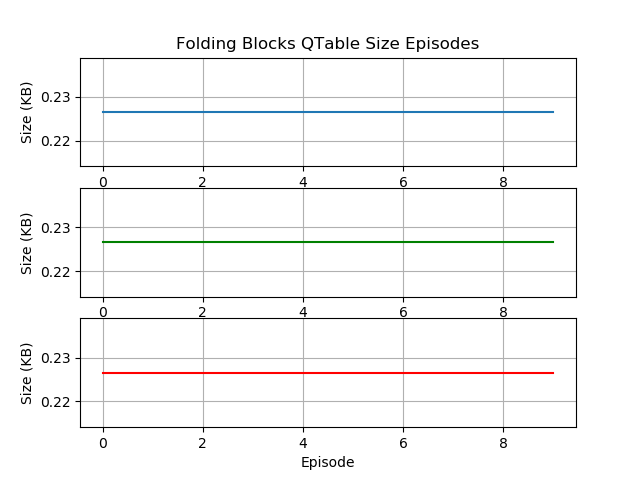
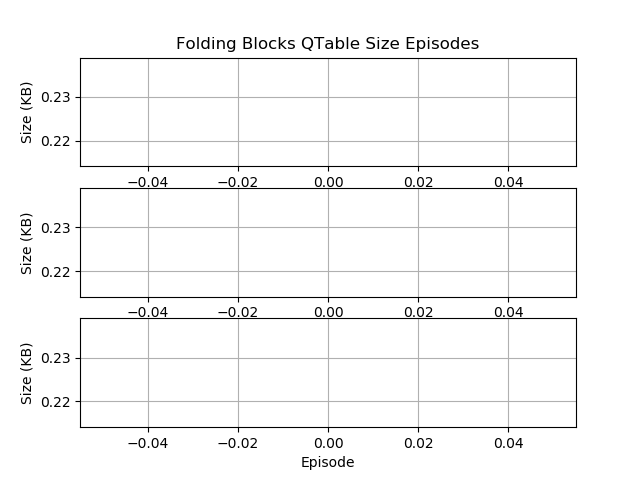
vamos ter 20 <3

diff --git a/agent.py b/agent.py
@@ -31,11 +31,11 @@ class Agent(object):
         return self.q_table[state]
 
     def choose_max_state(self, values):
-        return np.random.choice(values)
+        if len(values)>0:
+            return np.random.choice(values)
+        return 0
 
-    def get_state_index(self, state):
-        states, _ = self.game.get_open_moves()
-
+    def get_state_index(self, state, states):
         for i in range(len(states)):
             st = states[i]
             if state == st:
@@ -44,6 +44,8 @@ class Agent(object):
     def get_action_move(self, actions, state_index):
         prev_sum = 0
         sum = 0
+        action_index = None
+        ret_move = None
         for i in range(len(actions)):
             prev_sum = sum
             action = actions[i]
@@ -75,14 +77,15 @@ class Agent(object):
         """
 
         self.game.print_board()
+        states, actions = self.game.get_open_moves()
 
         oldBoard = self.game.get_state(self.game.board)
-        state, action, move = self.next_move()
-        state_index = self.get_state_index(state)
+        state, action, move = self.next_move(states, actions)
+        state_index = self.get_state_index(state, states)
         winner = self.game.make_move(action[0], move)
         reward = self.reward(winner)
 
-        self.update(reward, winner, state)
+        self.update(reward, winner, state, states, actions)
 
         if verbose:
             print("=========")
@@ -96,18 +99,17 @@ class Agent(object):
             print("Reward: " + str(reward))
         return (winner, reward)
 
-    def next_move(self):
+    def next_move(self, states, actions):
         print("Antes get_open_moves: " )
         self.game.print_board()
         """Selects next move in MDP following e-greedy strategy."""
-        states, actions = self.game.get_open_moves()
         print("Depois get_open_moves: " )
         self.game.print_board()
         for i in range(len(states)):
             state = states[i]
         # Exploit
         i = self.optimal_next(states)
-        if np.random.random_sample() < self.epsilon:
+        if np.random.random_sample() < self.epsilon and len(states)>0:
             # Explore
             i = np.random.randint(1, len(states))
         action_index, move = self.get_action_move(actions,i)
@@ -149,7 +151,7 @@ class Agent(object):
         else:
             return -1.0 
 
-    def update(self, reward, winner, state):
+    def update(self, reward, winner, state, states, actions):
         """Updates q-value.
         Update uses recorded observations of performing a
         certain action in a certain state and continuing optimally from there.
@@ -158,13 +160,13 @@ class Agent(object):
         # Finding estimated future value by finding max(Q(s', a'))
         # If terminal condition is reached, future reward is 0
         future_val = 0
-        state_index = self.get_state_index(state)
+        state_index = self.get_state_index(state, states)
         # state_index = 0
         if winner == None:
             future_states, _ = self.game.get_open_moves()
             i = self.optimal_next(future_states)
             future_state = future_states[i-1]
-            future_st_index = self.get_state_index(future_state)
+            future_st_index = self.get_state_index(future_state, future_states)
             future_val = self.qvalue(future_st_index)
         # Q-value update
         self.q_table[state_index] = ((1 - self.learning_rate) * self.qvalue(state_index)) + (self.learning_rate * (reward + self.discount * future_val))
@@ -191,6 +193,7 @@ class Agent(object):
                 if winner!=None:
                     game_active = False
                     self.game.reset()
+            print("N steps: " + str(j))
             total_reward += episode_reward
             cumulative_reward.append(total_reward)
             memory.append(sys.getsizeof(self.q_table) / 1024)

diff --git a/main.py b/main.py
@@ -19,7 +19,7 @@ def play():
         agent = Agent(game)
         history = agent.train(1)
         print('After 1 Episodes')
-"""
+
         rfig, raxs = plt.subplots(nrows=3, ncols=1)
         rax_reward1 = raxs[0]
         rax_reward1.grid()
@@ -61,7 +61,7 @@ def play():
         plt.show()
 
         agent.save_values(path='data/foldingblocks_qtable.json')
-"""
+
         # agent.stats()
 
 def main():

diff --git a/foldingblocks.py b/foldingblocks.py
@@ -38,8 +38,8 @@ class FoldingBlocks():
                 self.test_board[x][y] = " "
                 
         # LEVEL 1      
-        self.width = 2
-        self.height = 2
+        self.width = 4
+        self.height = 4
         self.board[0][0] = "A"
         self.test_board[0][0] = "A"
         self.define_blocks()
